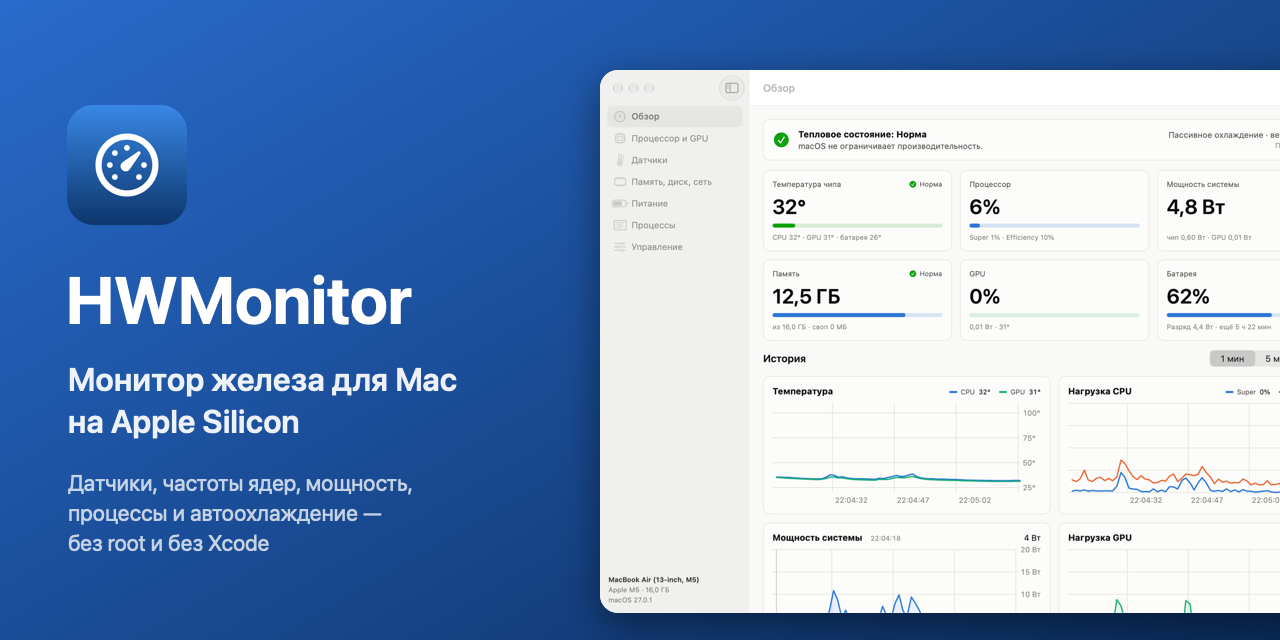
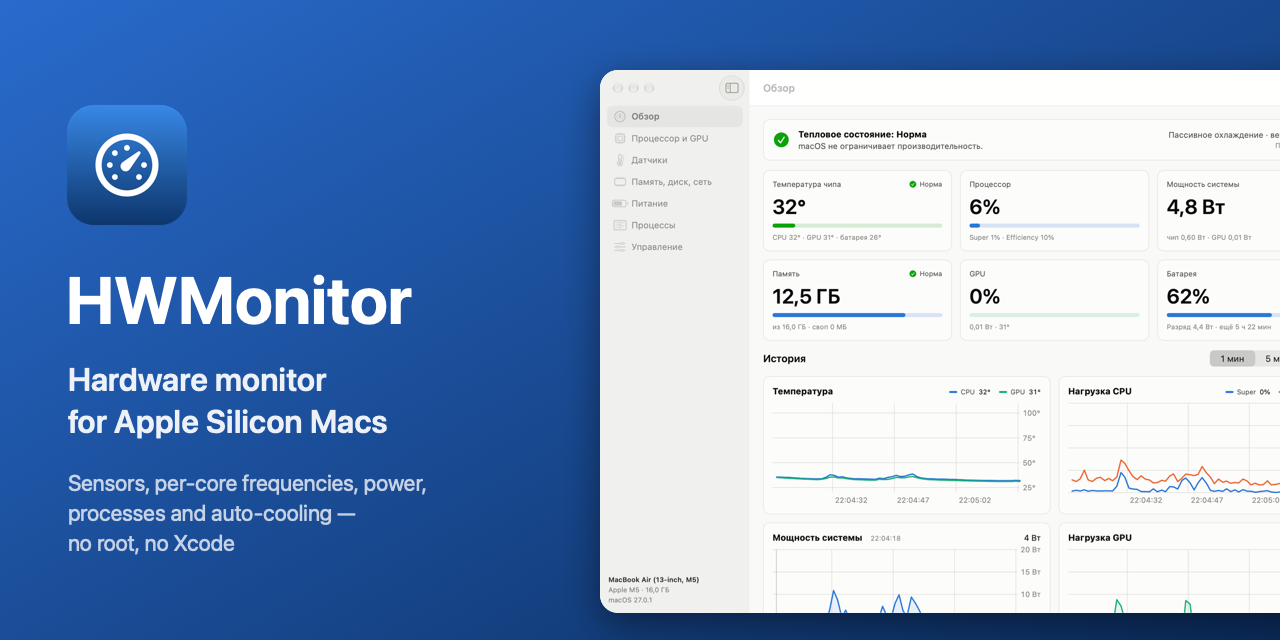
Translate README to English and re-render social preview
The app UI stays in Russian; only the docs and preview image change.

Changed region(s): [[0.0625, 0.5625, 0.375, 0.6875], [0.0312, 0.75, 0.3438, 0.875]]

diff --git a/README.md b/README.md
@@ -1,108 +1,108 @@
 # HWMonitor
 
-Монитор железа для Mac на Apple Silicon: температуры, частоты и загрузка ядер, GPU, память, диск, сеть, батарея и мощность — плюс управление нагревом. Без root, без Xcode, без сторонних зависимостей.
+A hardware monitor for Apple Silicon Macs: temperatures, per-core frequencies and load, GPU, memory, disk, network, battery and power draw — plus heat management. No root, no Xcode, no third-party dependencies.
 
-*A hardware monitor for Apple Silicon Macs with heat management: sensors, per-core frequencies, power, processes, and an "auto-cooling" mode that moves heavy background apps to efficiency cores. Russian UI, builds with Command Line Tools only.*
+![Overview](docs/screenshots/overview.png)
 
-![Обзор](docs/screenshots/overview.png)
+> The app's interface is in Russian.
 
-## Возможности
+## Features
 
-- **Температуры** — все живые датчики SMC (на M5 их 115), сгруппированные: Super- и Efficiency-ядра, GPU, батарея, SSD, Wi‑Fi, контроллеры питания и т.д. Минимум и максимум с момента запуска.
-- **Процессор** — загрузка и текущая частота каждого ядра, средняя частота кластеров, история.
-- **GPU, память, диск, сеть** — загрузка и мощность GPU, состав памяти и её давление, своп, свободное место и скорость диска, трафик.
-- **Питание** — мощность всей системы и чипа в ваттах, заряд, здоровье и циклы батареи, адаптер.
-- **Тепловое состояние** — уровень теплового давления macOS: видно, когда система начала снижать частоту.
-- **Процессы** — нагрузка, память, потребляемая мощность и доля времени на быстрых ядрах, с группировкой по приложениям. Приложение можно замедлить, приостановить или завершить.
-- **Автоохлаждение** — при перегреве самые прожорливые фоновые приложения переводятся на экономичные ядра (см. ниже).
-- **Режим энергосбережения** для батареи и адаптера, запрет сна, три готовых профиля.
-- **Строка меню** — температура и нагрузка, сводка по клику. Окно можно закрыть, монитор продолжит работать.
+- **Temperatures** — every live SMC sensor (115 on an M5), grouped into Super and Efficiency cores, GPU, battery, SSD, Wi‑Fi, power controllers and more, with min/max since launch.
+- **CPU** — load and current frequency of every core, average cluster frequency, history.
+- **GPU, memory, disk, network** — GPU load and power, memory breakdown and pressure, swap, free space, disk throughput and traffic.
+- **Power** — system and chip power in watts; battery charge, health and cycle count; charger.
+- **Thermal state** — the macOS thermal pressure level, so you can see when the system starts throttling.
+- **Processes** — CPU, memory, power draw and share of time on performance cores, grouped by app. Your own apps can be slowed down, paused or quit.
+- **Auto-cooling** — when the chip overheats, the heaviest background apps are moved to efficiency cores (see below).
+- **Low Power Mode** for battery and charger, keep-awake, three presets.
+- **Menu bar** — temperature and load, with a summary on click. Close the window and the monitor keeps running.
 
 | | |
 |---|---|
-| ![Процессор](docs/screenshots/cpu.png) | ![Датчики](docs/screenshots/sensors.png) |
+| ![CPU](docs/screenshots/cpu.png) | ![Sensors](docs/screenshots/sensors.png) |
 
-## Как устроено «охлаждение»
+## How "cooling" works on a fanless Mac
 
-На MacBook Air вентилятора нет, поэтому настраивать обороты нечем: чип остывает через корпус, а при перегреве macOS сама снижает частоту. Управлять можно только тем, сколько тепла выделяется.
+A MacBook Air has no fan, so there is no fan speed to tune: the chip cools through the chassis, and macOS lowers its clock when it gets too hot. The only thing you can control is how much heat is produced.
 
-Главный рычаг — фоновый приоритет (`setpriority(PRIO_DARWIN_PROCESS, pid, PRIO_DARWIN_BG)`): процесс продолжает работать, но планировщик держит его только на экономичных ядрах. Для своих процессов root не нужен.
+The main lever is background priority (`setpriority(PRIO_DARWIN_PROCESS, pid, PRIO_DARWIN_BG)`): the process keeps running, but the scheduler keeps it on efficiency cores only. No root is needed for your own processes.
 
-Проверка на MacBook Air M5: тестовая нагрузка в 4 потока за несколько секунд разогрела чип до 92–101°. После перевода на экономичные ядра чип держался на 48–51°, хотя нагрузка продолжала работать (300–380% CPU).
+Measured on a MacBook Air M5: a 4-thread test load heated the chip to 92–101 °C within seconds. Once it was moved to efficiency cores, the chip stayed at 48–51 °C while the load kept running (300–380% CPU).
 
-Автоохлаждение замедляет до трёх самых тяжёлых фоновых приложений, когда чип горячее порога два замера подряд — или сразу, если он горячее порога на 10° и больше. Приоритет возвращается, когда приложение закончило тяжёлую работу и чип остыл, либо когда вы на него переключились. Активное приложение и системные процессы не трогаются.
+Auto-cooling slows down up to three of the heaviest background apps when the chip stays above the threshold for two samples in a row, or immediately if it is 10 °C or more above it. Priority is restored when the app has finished its heavy work and the chip has cooled down, or when you switch to that app. The frontmost app and system processes are never touched.
 
-При выходе (в том числе по `SIGTERM`) монитор возвращает обычный приоритет всем замедленным процессам и снимает паузу с приостановленных; если он упал, это делается при следующем запуске.
+On exit (including `SIGTERM`) the monitor restores normal priority to every slowed-down process and resumes paused ones; after a crash, this happens on the next launch.
 
-![Управление](docs/screenshots/controls.png)
+![Controls](docs/screenshots/controls.png)
 
-## Требования
+## Requirements
 
-- Mac на Apple Silicon. Собирается под macOS 14 и новее; проверено только на MacBook Air M5 с macOS 27.
-- Command Line Tools: `xcode-select --install`. Xcode не нужен.
+- An Apple Silicon Mac. Builds for macOS 14 and later; tested only on a MacBook Air M5 with macOS 27.
+- Command Line Tools: `xcode-select --install`. Xcode is not required.
 
-## Сборка и установка
+## Build and install
 
-В папке репозитория:
+From the repository folder:
 
 ```bash
 ./build.sh
 open HWMonitor.app
 ```
 
-`build.sh` компилирует `Sources/*.swift` через `swiftc`, собирает `HWMonitor.app`, рисует иконку (если рядом нет своей `icon.png`) и подписывает приложение локально. Для автозапуска перенесите `HWMonitor.app` в «Программы» и включите его в разделе «Управление».
+`build.sh` compiles `Sources/*.swift` with `swiftc`, assembles `HWMonitor.app`, draws an icon (unless you put your own `icon.png` next to it) and signs the app locally. To launch it at login, move `HWMonitor.app` to Applications and turn the option on in the Controls section («Управление»).
 
-Собранный `.app`, переданный на другой Mac, macOS при первом запуске заблокирует, потому что он не нотаризован: разрешить можно в System Settings → Privacy & Security → Open Anyway.
+Downloaded builds (for example from Releases) are not notarized, so macOS blocks the first launch: allow it in System Settings → Privacy & Security → Open Anyway.
 
-## Откуда берутся данные
+## Where the data comes from
 
-Всё читается без прав администратора.
+Everything is read without administrator privileges.
 
-| Данные | Источник |
+| Data | Source |
 |---|---|
-| Температуры, мощность шин питания, вентиляторы | SMC (пользовательский клиент `AppleSMC`) |
-| Частоты ядер, мощность GPU | IOReport (закрытая `libIOReport`) и таблицы DVFS из `pmgr` |
-| Загрузка ядер | `host_processor_info` |
-| Память | `host_statistics64`, `vm.swapusage` |
-| GPU | `PerformanceStatistics` у `IOAccelerator` |
-| Диск и сеть | `IOBlockStorageDriver`, `getifaddrs` |
-| Батарея | `AppleSmartBattery` в IORegistry |
-| Тепловое давление | уведомление `com.apple.system.thermalpressurelevel` |
-| Процессы | `libproc` для своих, `ps` для системных |
+| Temperatures, power rails, fans | SMC (`AppleSMC` user client) |
+| Core frequencies, GPU power | IOReport (private `libIOReport`) and DVFS tables from `pmgr` |
+| Core load | `host_processor_info` |
+| Memory | `host_statistics64`, `vm.swapusage` |
+| GPU | `PerformanceStatistics` of `IOAccelerator` |
+| Disk and network | `IOBlockStorageDriver`, `getifaddrs` |
+| Battery | `AppleSmartBattery` in the IORegistry |
+| Thermal pressure | the `com.apple.system.thermalpressurelevel` notification |
+| Processes | `libproc` for your own, `ps` for system ones |
 
-Режим энергосбережения переключается через `pmset`; для этого macOS показывает стандартный запрос пароля администратора.
+Low Power Mode is switched via `pmset`; macOS shows its standard administrator password prompt for that.
 
-## Ограничения
+## Limitations
 
-- Используются недокументированные интерфейсы (SMC, IOReport, `responsibility_get_pid_responsible_for_pid`). Это не годится для App Store и может сломаться в будущих версиях macOS.
-- Назначение ключей SMC Apple не публикует. Группы датчиков размечены на M5 нагрузочным тестом; на M1–M4 ключи называются иначе, и часть датчиков может попасть в «Прочие». «Чип (оценка)» — тоже вывод из теста.
-- Вентиляторы на Mac, где они есть, только отображаются — управления оборотами нет. На настоящих вентиляторах отображение не проверялось.
-- Системными процессами без root управлять нельзя, они только показываются.
-- Интерфейс только на русском.
+- Uses undocumented interfaces (SMC, IOReport, `responsibility_get_pid_responsible_for_pid`). Not suitable for the App Store and may break in future macOS versions.
+- Apple does not document what SMC keys mean. Sensor groups were mapped on an M5 with a load test; on M1–M4 the keys are named differently, and some sensors may end up under «Прочие датчики» (Other). The chip power estimate is inferred from the same test.
+- On Macs that have fans, fan speeds are only displayed — there is no fan control. The fan display has not been tested on real fans.
+- System processes can't be controlled without root; they are only shown.
+- The interface is Russian only.
 
-## Разработка
+## Development
 
-| Файл | Что внутри |
+| File | Contents |
 |---|---|
-| `SMC.swift`, `Sensors.swift` | чтение SMC, поиск и группировка датчиков |
-| `IOReport.swift`, `Bridge.h` | частоты ядер и мощность GPU через IOReport |
-| `Probes.swift` | процессор, память, GPU, диск, сеть, батарея, тепловое состояние |
-| `Processes.swift` | список процессов и их нагрузка |
-| `Controls.swift` | приоритеты процессов, энергосбережение, запрет сна, уведомления, автозапуск |
-| `Model.swift` | сбор данных в фоне, история, автоохлаждение, настройки |
-| `App.swift`, `Views*.swift`, `Charts.swift`, `Theme.swift` | интерфейс |
+| `SMC.swift`, `Sensors.swift` | SMC access, sensor discovery and grouping |
+| `IOReport.swift`, `Bridge.h` | core frequencies and GPU power via IOReport |
+| `Probes.swift` | CPU, memory, GPU, disk, network, battery, thermal state |
+| `Processes.swift` | process list and per-process load |
+| `Controls.swift` | process priority, Low Power Mode, keep-awake, notifications, launch at login |
+| `Model.swift` | background sampling, history, auto-cooling, settings |
+| `App.swift`, `Views*.swift`, `Charts.swift`, `Theme.swift` | user interface |
 
-- В SDK macOS 27 `@State` стал макросом, плагин которого есть только в Xcode, поэтому вместо него используется обёртка `@Local` из `Theme.swift`.
-- Монитор экономит ресурсы: полный набор датчиков читается только на странице «Датчики», процессы — когда их кто-то видит или включено автоохлаждение, графики не пересчитываются, пока окно скрыто.
-- `HWMonitor --background` запускает приложение без окна (так же оно ведёт себя при автозапуске).
-- Снимки окна для проверки вёрстки: приложение сохраняет PNG каждого раздела и выходит.
+- In the macOS 27 SDK, `@State` became a macro whose plugin ships only with Xcode, so the code uses the `@Local` wrapper from `Theme.swift` instead.
+- The monitor is frugal: the full sensor set is read only on the Sensors page, processes only while someone looks at them or auto-cooling is on, and charts are not recomputed while the window is hidden.
+- `HWMonitor --background` starts the app without its window (the same happens at login).
+- Layout snapshots: the app saves a PNG of each section and quits.
 
 ```bash
 HWMON_SNAPSHOT_DIR=/tmp/shots HWMON_SNAPSHOT_PAGES=overview,cpu HWMON_SNAPSHOT_DELAY=30 ./HWMonitor.app/Contents/MacOS/HWMonitor
 ```
 
-`HWMON_APPEARANCE=dark` — снимки в тёмной теме.
+`HWMON_APPEARANCE=dark` takes the snapshots in dark mode.
 
-## Лицензия
+## License
 
 [MIT](LICENSE)
